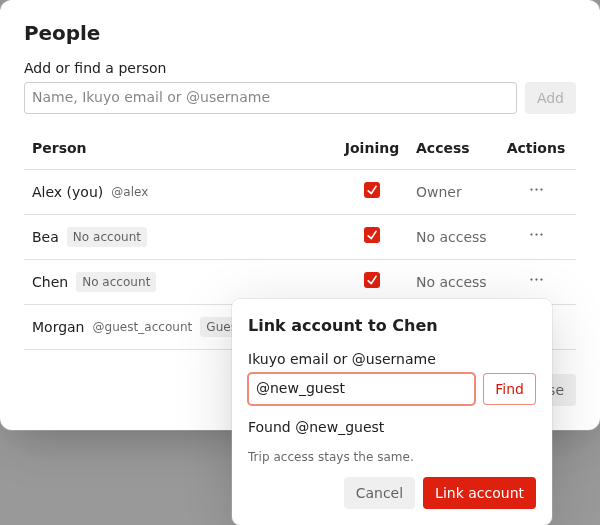
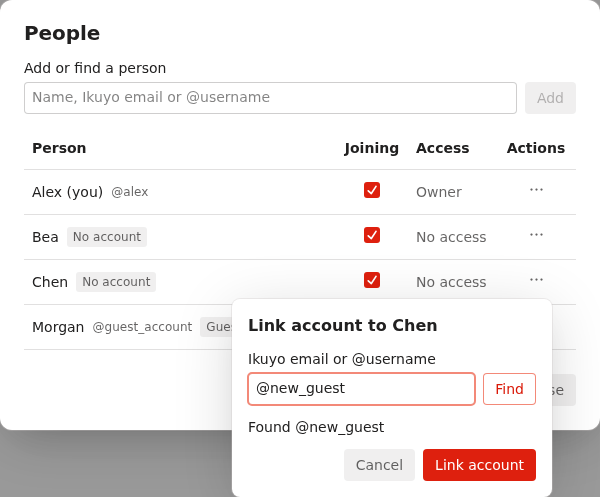
Remove extra copy from account-link popover

diff --git a/src/Trip/people/TripPeopleDialog.tsx b/src/Trip/people/TripPeopleDialog.tsx
@@ -667,9 +667,6 @@ function LinkAccountForm({
           {error}
         </Text>
       )}
-      <Text size="1" color="gray">
-        Trip access stays the same.
-      </Text>
       <Flex gap="2" justify="end" wrap="wrap">
         <Popover.Close>
           <Button type="button" variant="soft" color="gray" disabled={loading}>
